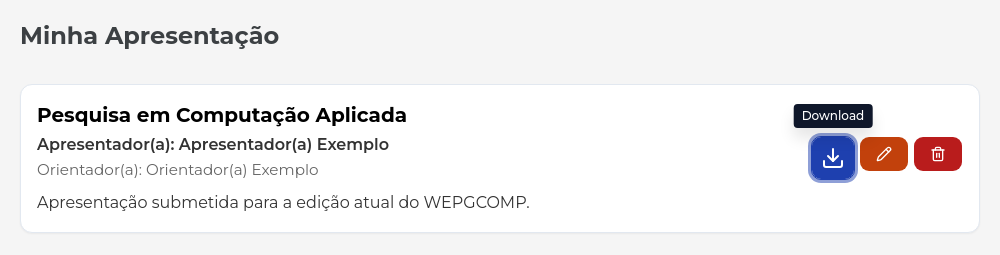
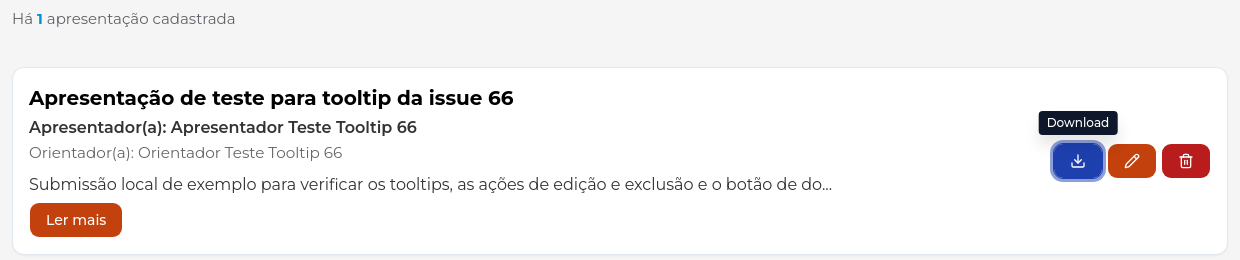
fix: alinha botão de download às ações da apresentação

diff --git a/src/features/apresentacoes/components/CardApresentacaoLista.tsx b/src/features/apresentacoes/components/CardApresentacaoLista.tsx
@@ -110,15 +110,14 @@ export default function CardApresentacaoLista({
         {item.pdfFile ? (
           <DicaAcao texto="Download">
             <Button
-              size="icon-lg"
+              size="lg"
               variante="primary"
               type="button"
               onClick={() => baixarPdf(item.id, item.pdfFile)}
               disabled={baixandoPdf}
               aria-label={"Download de " + (nomeArquivo || "apresentação")}
-              className="h-11 w-11 p-0"
             >
-              <Download aria-hidden="true" className="size-6" />
+              <Download aria-hidden="true" />
             </Button>
           </DicaAcao>
         ) : null}
